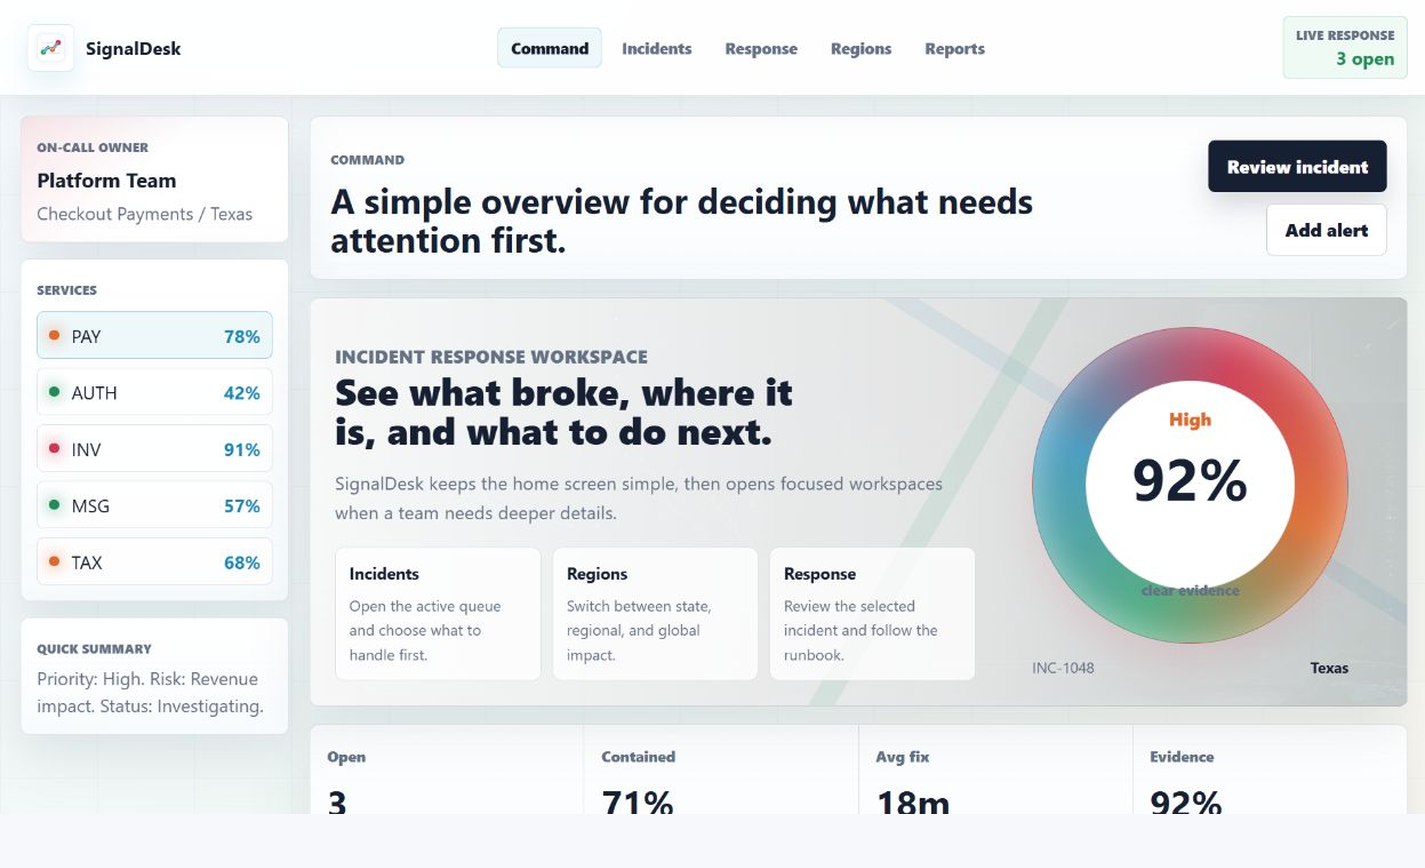
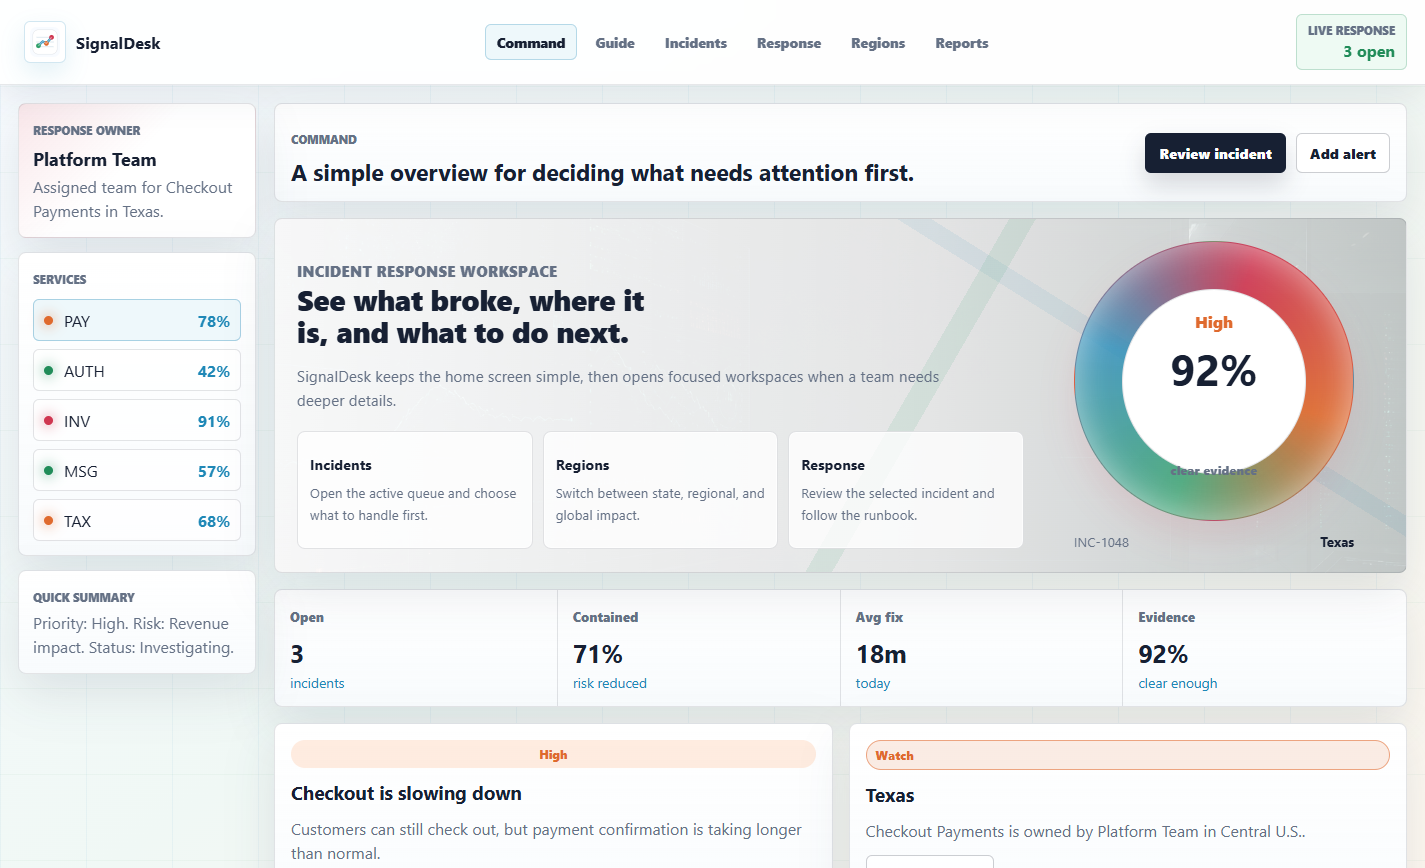
Update SignalDesk guide portfolio entry

Changed region(s): [[0.0, 0.0311, 0.9881, 0.9954], [0.3396, 0.0311, 0.7102, 0.0622], [0.0309, 0.0311, 0.1235, 0.0622]]

diff --git a/index.html b/index.html
@@ -297,7 +297,7 @@
               </div>
               <p>
                 A production-style response workspace with focused screens for
-                command, incidents, response plans, regions, and reports.
+                command, guide, incidents, response plans, regions, and reports.
               </p>
               <div class="detail-grid" aria-label="SignalDesk project details">
                 <div>
@@ -306,7 +306,7 @@
                 </div>
                 <div>
                   <strong>Build</strong>
-                  <span>Created a compact command home plus separate taskbar views for incidents, response, U.S./global coverage, and reports.</span>
+                  <span>Created a compact command home plus separate taskbar views for the guide, incidents, response, U.S./global coverage, and reports.</span>
                 </div>
                 <div>
                   <strong>Focus</strong>
@@ -317,7 +317,7 @@
             <div class="feature-details">
               <ul class="project-list">
                 <li>Built with Next.js, React, TypeScript, and custom CSS.</li>
-                <li>Includes working app navigation, incident filters, coverage scope switches, service map selection, and response status actions.</li>
+                <li>Includes a how-to guide, working app navigation, incident filters, coverage scope switches, service map selection, and response status actions.</li>
                 <li>Uses a server-side review route to return a plain-language response recommendation.</li>
               </ul>
               <div class="tag-row" aria-label="SignalDesk technology stack">

diff --git a/README.md b/README.md
@@ -13,7 +13,7 @@ Portfolio live site: https://fidel-portfolio-eta.vercel.app/
 ## Projects Included
 
 - SnapChef: full-stack AI food image assistant with live site
-- SignalDesk: incident response workspace with separate command, incidents, response, regions, and reports views
+- SignalDesk: incident response workspace with separate command, guide, incidents, response, regions, and reports views
 - StudyOps: live browser study command center with files, notes, tasks, flashcards, quiz filters, backups, Panic Mode planning, and updated dashboard screenshot
 - Campus Connect: campus networking platform with simplified navigation and grouped student hub actions
 - Arcane Duel: browser canvas gesture-combat game
